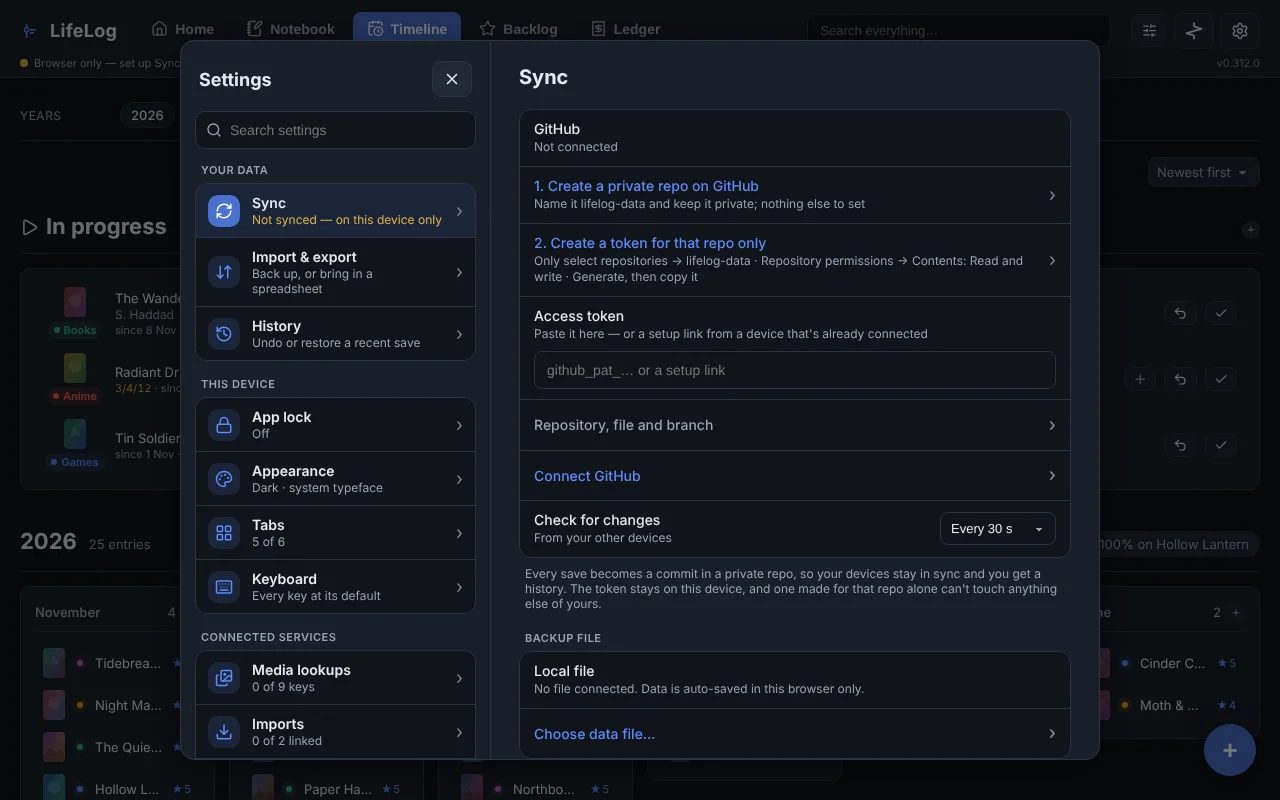
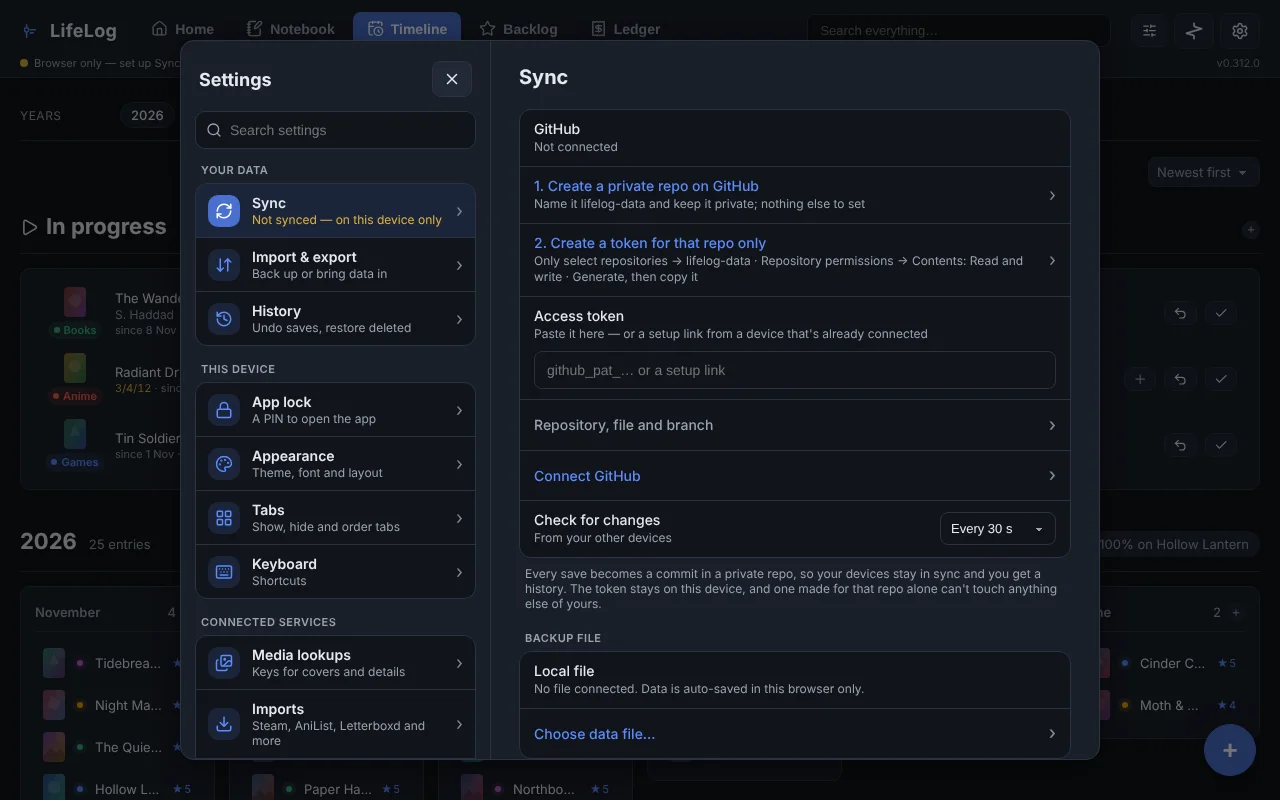
Settings rows: a few words on each page instead of a status
Daniel (2026-11-13) found the status lines too long even when shortened.
Each row now says what its page holds; only Sync off or broken and
recorded errors still show, as warnings. Tests that read the old status
text now check the setting itself.

Claude-Session: https://claude.ai/code/session_01CFeKrj2JNAaCgrcKtngfFn

Changed region(s): [[0.1562, 0.3125, 0.3438, 0.9375]]

diff --git a/src/settings.js b/src/settings.js
@@ -624,98 +624,38 @@
     return true;
   }
 
-  // ---------- the status line under each row ----------
-  const EVERY = { "1": "every day", "3": "every 3 days", "7": "every week", "30": "every month" };
-  const THEMES = { default: "Dark", light: "Light", nord: "Nord", dracula: "Dracula" };
-  const FONTS = { system: "system typeface", serif: "serif", mono: "monospace", rounded: "rounded" };
-  const KEY_NAMES = { rawg: "RAWG", tmdb: "TMDB", ggdeals: "GG.deals", steamgriddb: "SteamGridDB", igdb: "IGDB", hardcover: "Hardcover", googlePlaces: "Google Places", nyt: "New York Times", tiingo: "Tiingo" };
+  // ---------- the line under each row ----------
+  // A few words on what the page holds, not where things stand (2026-11-13,
+  // Daniel: the old status lines ran to two lines and said too much). Only
+  // something that needs you still shows: sync off or broken, errors recorded.
+  const ABOUT_ROW = {
+    sync: "Keep your devices in step",
+    io: "Back up or bring data in",
+    history: "Undo saves, restore deleted",
+    lock: "A PIN to open the app",
+    desktop: "Startup and tray",
+    notifications: "Reminders and alerts",
+    appearance: "Theme, font and layout",
+    tabs: "Show, hide and order tabs",
+    keyboard: "Shortcuts",
+    media: "Keys for covers and details",
+    imports: "Steam, AniList, Letterboxd and more",
+    releases: "Upcoming release checks",
+    about: "Version, what's new, credits",
+  };
+
   const plural = (n, one, many) => n + " " + (n === 1 ? one : many);
 
   function statusOf(page) {
-    const set = state.data.settings || {};
-    switch (page) {
-      case "about": {
-        const n = window.LifeLogErrors ? window.LifeLogErrors.list().length : 0;
-        return { text: "Version " + APP_VERSION + (n ? " · " + (n === 1 ? "1 error" : n + " errors") + " recorded" : " · what's new, credits") };
-      }
-      case "sync": {
-        const gi = Storage.githubInfo;
-        const file = Storage.fileName && !Storage.needsReconnect;
-        const phone = Storage.phoneBackup.on ? " · phone backup" : "";
-        if (Storage.githubConnected && gi) return { text: "GitHub · " + gi.owner + "/" + gi.repo + (file ? " · backup file" : "") + phone, tone: "ok" };
-        if (phone) return { text: "Not synced · backed up on this phone" };
-        if (Storage.fileName && Storage.needsReconnect) return { text: "The backup file needs permission again", tone: "warn" };
-        if (file) return { text: "Backup file only · " + Storage.fileName };
-        return { text: "Not synced — on this device only", tone: "warn" };
-      }
-      case "io": return { text: "Back up, or bring in a spreadsheet" };
-      case "history": {
-        const n = historyCache.length, gone = computeRecentlyDeleted().length;
-        const saves = n ? "Undo or restore any of " + plural(n, "save", "saves") : "Undo or restore a recent save";
-        return { text: saves + (gone ? " · " + plural(gone, "deleted item", "deleted items") : "") };
-      }
-      case "lock": {
-        const p = state.privacy;
-        if (!p.pinHash) return { text: "Off" };
-        const how = p.credentialId ? "PIN + fingerprint" : "PIN";
-        if (!p.enabled) return { text: how + " set up, not required" };
-        const g = +p.graceMinutes || 0;
-        const r = p.relockMinutes == null ? 5 : +p.relockMinutes;
-        const mins = (m) => (m === 60 ? "an hour" : plural(m, "minute", "minutes"));
-        const away = r < 0 ? "" : r === 0 ? " · locks when put away" : " · locks after " + mins(r) + " away";
-        return { text: how + " · " + (g ? "asks after " + mins(g) : "asks every time") + away };
-      }
-      case "appearance": {
-        const v = state.visual;
-        const forced = v.forceLayout === "mobile" ? " · phone layout" : v.forceLayout === "pc" ? " · computer layout" : "";
-        return { text: (THEMES[v.theme] || THEMES.default) + " · " + (FONTS[v.fontFamily] || FONTS.system) + forced };
-      }
-      case "keyboard": {
-        const n = window.LifeLogKeys ? window.LifeLogKeys.changedCount() : 0;
-        return { text: n ? (n === 1 ? "1 key changed" : n + " keys changed") : "Every key at its default" };
-      }
-      case "tabs": {
-        const offViews = state.visual.disabledViews || [];
-        const tabs = viewToggles();
-        return { text: tabs.filter(([v]) => !offViews.includes(v)).length + " of " + tabs.length };
-      }
-      case "media": {
-        const keys = set.mediaKeys || {};
-        const names = Object.keys(KEY_NAMES);
-        return { text: names.filter((k) => keys[k]).length + " of " + names.length + " keys" };
-      }
-      case "imports": {
-        const links = [!!(set.steam && set.steam.steamId), !!(set.anilist && set.anilist.userName)];
-        const wallet = document.getElementById("paymentsGroup");
-        if (wallet && !wallet.hidden) links.push(!!(window.LifeLogPayments && window.LifeLogPayments.summary()));
-        return { text: links.filter(Boolean).length + " of " + links.length + " linked" };
-      }
-      case "notifications": {
-        const A = window.LifeLogAlerts, R = window.LifeLogReminders;
-        if (!A) return null;
-        const on = [];
-        if (R && R.isOn()) on.push("habits");
-        if (A.kindOn("charges")) on.push("charges");
-        const rel = A.releaseMode();
-        if (rel !== "off") on.push(rel === "all" ? "release days" : "starred release days");
-        if (A.kindOn("prices")) on.push("price drops");
-        if (A.kindOn("targets")) on.push("investment targets");
-        const Wg = window.LifeLogWidgets;
-        const bg = Wg && Wg.backgroundAvailable && Wg.backgroundAvailable() ? Wg.backgroundMinutes() : 0;
-        const text = on.length ? on.join(", ").replace(/^./, (c) => c.toUpperCase()) : "All off";
-        return { text: bg ? text + " · refreshed every " + (bg >= 60 ? (bg / 60 === 1 ? "hour" : bg / 60 + " hours") : bg + " min") : text };
-      }
-      case "desktop": {
-        const D = window.LifeLogDesktop;
-        if (!D) return null;
-        return { text: D.prefs().closeToTray ? "Closing keeps it in the tray" : "Closing quits" };
-      }
-      case "releases": {
-        const d = String((set.releases && set.releases.autoRefreshDays) || "0");
-        return { text: EVERY[d] ? "Checked " + EVERY[d] : "Checked when you ask" };
-      }
+    if (page === "sync" && !Storage.githubConnected && !Storage.phoneBackup.on) {
+      if (Storage.fileName && Storage.needsReconnect) return { text: "The backup file needs permission again", tone: "warn" };
+      if (!Storage.fileName) return { text: "Not synced — on this device only", tone: "warn" };
     }
-    return null;
+    if (page === "about") {
+      const n = window.LifeLogErrors ? window.LifeLogErrors.list().length : 0;
+      if (n) return { text: (n === 1 ? "1 error" : n + " errors") + " recorded", tone: "warn" };
+    }
+    return ABOUT_ROW[page] ? { text: ABOUT_ROW[page] } : null;
   }
 
   function updateStatuses() {

diff --git a/test/browser/native.js b/test/browser/native.js
@@ -1495,12 +1495,12 @@ async function openApp(browser, { native = true, latestTag = null, cache = doc([
     await page.evaluate(() => window.LifeLogSettings.openSettings("notifications"));
     await page.waitForTimeout(300);
     check("Settings → Notifications (0.278.0) offers a release-day notification in the app", await page.evaluate(() => !document.querySelector("#releaseAlertsRow").hidden && document.querySelector("#releaseAlerts").value === "off"));
-    check("and every kind on, with the index row saying so", await page.evaluate(() => document.querySelector("#notifyHabits").checked && document.querySelector("#notifyCharges").checked && document.querySelector("#notifyPrices").checked
-      && !document.querySelector("#notificationsRow").hidden && /charges/.test(document.querySelector('[data-status="notifications"]').textContent)));
+    check("and every kind on, with the index row shown", await page.evaluate(() => document.querySelector("#notifyHabits").checked && document.querySelector("#notifyCharges").checked && document.querySelector("#notifyPrices").checked
+      && !document.querySelector("#notificationsRow").hidden));
     await page.click("#notifyCharges");
     await page.waitForTimeout(700);
     check("charges switched off leave the snapshot, the choice kept", ((await lastSnap(page)).alerts || []).every((a) => a.kind !== "charge")
-      && await page.evaluate(() => JSON.parse(localStorage.getItem("lifelog-alerts-v1")).charges.r1 === "3" && !/charges/.test(document.querySelector('[data-status="notifications"]').textContent)));
+      && await page.evaluate(() => JSON.parse(localStorage.getItem("lifelog-alerts-v1")).charges.r1 === "3"));
     await page.click("#notifyCharges");
     await page.waitForTimeout(700);
     check("and come back when switched on", ((await lastSnap(page)).alerts || []).some((a) => a.kind === "charge"));
@@ -1517,8 +1517,7 @@ async function openApp(browser, { native = true, latestTag = null, cache = doc([
     check("Background refresh is offered on Android, off", await page.evaluate(() => !document.querySelector("#backgroundRefreshRow").hidden && document.querySelector("#backgroundRefresh").value === "0" && window.__cap.background.length === 0));
     await page.selectOption("#backgroundRefresh", "60");
     await page.waitForTimeout(300);
-    check("every hour: the plugin schedules it, the index row says so", await page.evaluate(() => window.__cap.background.join(",") === "60" && JSON.parse(localStorage.getItem("lifelog-background-v1")).minutes === 60
-      && /refreshed every hour/.test(document.querySelector('[data-status="notifications"]').textContent)));
+    check("every hour: the plugin schedules it", await page.evaluate(() => window.__cap.background.join(",") === "60" && JSON.parse(localStorage.getItem("lifelog-background-v1")).minutes === 60));
     await page.reload({ waitUntil: "load" });
     await page.waitForTimeout(1200);
     check("and the next launch tells the plugin again", await page.evaluate(() => window.__cap.background.join(",") === "60"));
@@ -1526,7 +1525,7 @@ async function openApp(browser, { native = true, latestTag = null, cache = doc([
     await page.waitForTimeout(300);
     await page.selectOption("#backgroundRefresh", "0");
     await page.waitForTimeout(300);
-    check("off cancels it", await page.evaluate(() => window.__cap.background.join(",") === "60,0" && !/refreshed/.test(document.querySelector('[data-status="notifications"]').textContent)));
+    check("off cancels it", await page.evaluate(() => window.__cap.background.join(",") === "60,0"));
     errs.push(...e);
     await ctx.close();
 

diff --git a/test/browser/keyboardsettings.js b/test/browser/keyboardsettings.js
@@ -32,7 +32,7 @@ const SEED = {
 
   await page.keyboard.press("Tab");
   check("the Keyboard row shows on a computer", await page.isVisible('#settingsHome .srow[data-page="keyboard"]'));
-  check("and says every key is at its default", /default/.test(await page.textContent('[data-status="keyboard"]')));
+  check("and says what it holds", /Shortcuts/.test(await page.textContent('[data-status="keyboard"]')));
   await page.click('#settingsHome .srow[data-page="keyboard"]');
   await page.waitForTimeout(300);
   const rows = await page.evaluate(() => [...document.querySelectorAll("#kbActions .kb-row")].map((r) => r.dataset.kb));
@@ -76,7 +76,7 @@ const SEED = {
   const firstTab = await page.evaluate(() => document.querySelector("#kbTabs .kb-row").dataset.kb.slice(4));
   const secondTab = await page.evaluate(() => document.querySelectorAll("#kbTabs .kb-row")[2].dataset.kb.slice(4));
   await page.click("#settingsBackBtn").catch(() => {});
-  check("the status counts what changed", /3 keys changed/.test(await page.textContent('[data-status="keyboard"]')), await page.textContent('[data-status="keyboard"]'));
+  check("three keys count as changed", await page.evaluate(() => window.LifeLogKeys.changedCount() === 3));
 
   await page.keyboard.press("Escape"); await page.waitForTimeout(150);
   await page.keyboard.press("Escape"); await page.waitForTimeout(250);

diff --git a/test/browser/phonebackup.js b/test/browser/phonebackup.js
@@ -109,8 +109,8 @@ async function openSync(page) {
     check("the row says where and when", await page.evaluate(() =>
       /Documents\/LifeLog · saved/.test(document.getElementById("phoneBackupInfo").textContent)),
       await page.evaluate(() => document.getElementById("phoneBackupInfo").textContent));
-    check("and the Sync row mentions it", await page.evaluate(() =>
-      /backed up on this phone/.test(document.querySelector('.srow[data-page="sync"] .srow-status').textContent)));
+    check("and the Sync row stops warning", await page.evaluate(() =>
+      document.querySelector('.srow[data-page="sync"] .srow-status').dataset.tone !== "warn"));
 
     // An edit reaches the backup like any save.
     await page.keyboard.press("Escape"); await page.keyboard.press("Escape");

diff --git a/changes/fix-settings-short-labels.md b/changes/fix-settings-short-labels.md
@@ -1,5 +1,2 @@
 ### Changed
-- Settings rows say less: Tabs shows how many tabs are on out of all of them ("5 of 6"), Media lookups how many keys are set ("3 of 9 keys"), and Imports how many accounts are linked ("2 of 2 linked").
-
-### Fixed
-- Media lookups no longer lists "igdbSecret" as a key of its own once IGDB is set up.
+- The line under each Settings row is now a few words on what that page holds (Tabs: "Show, hide and order tabs") instead of a status that could run to two lines. Only something that needs you still shows there: Sync off or its backup file needing permission, and errors recorded under About.
